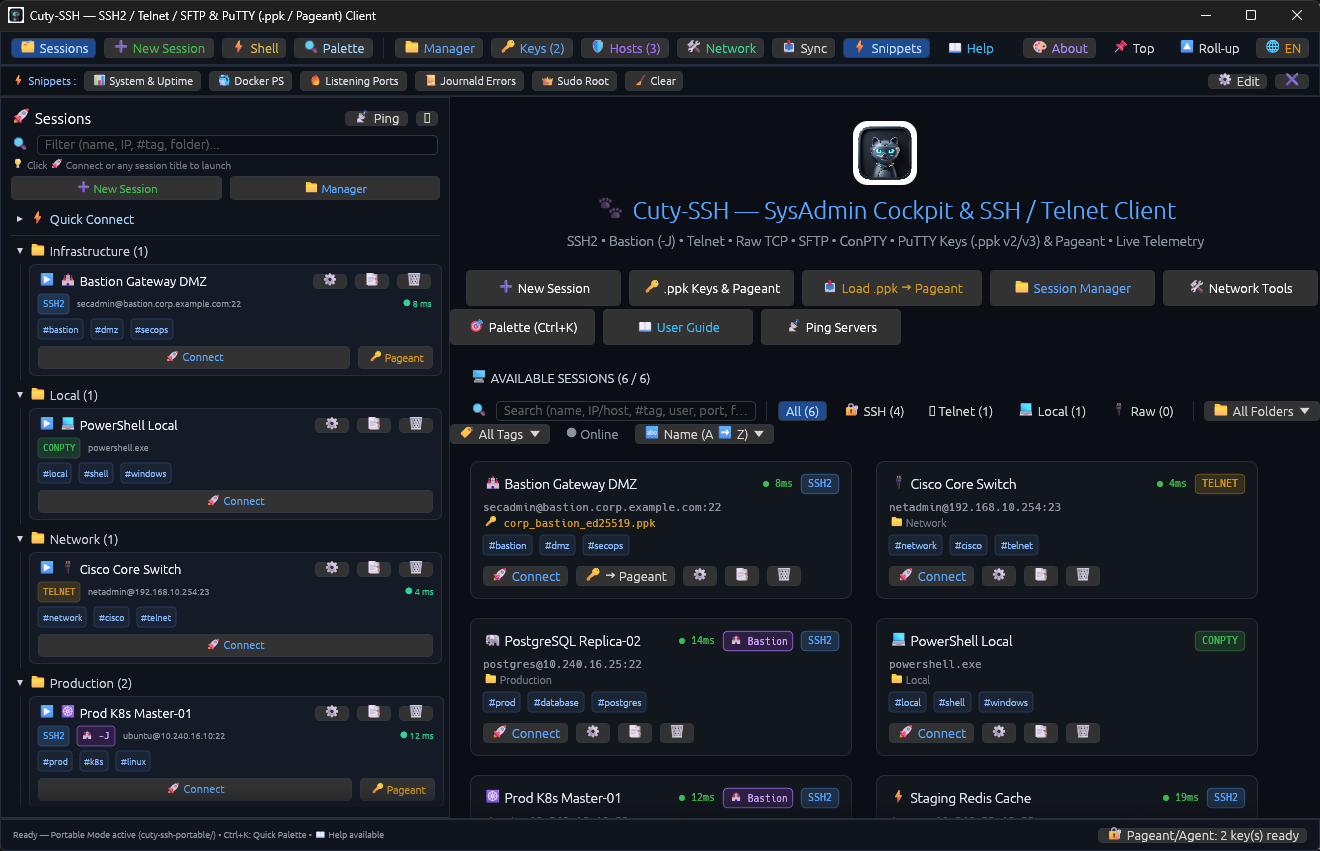
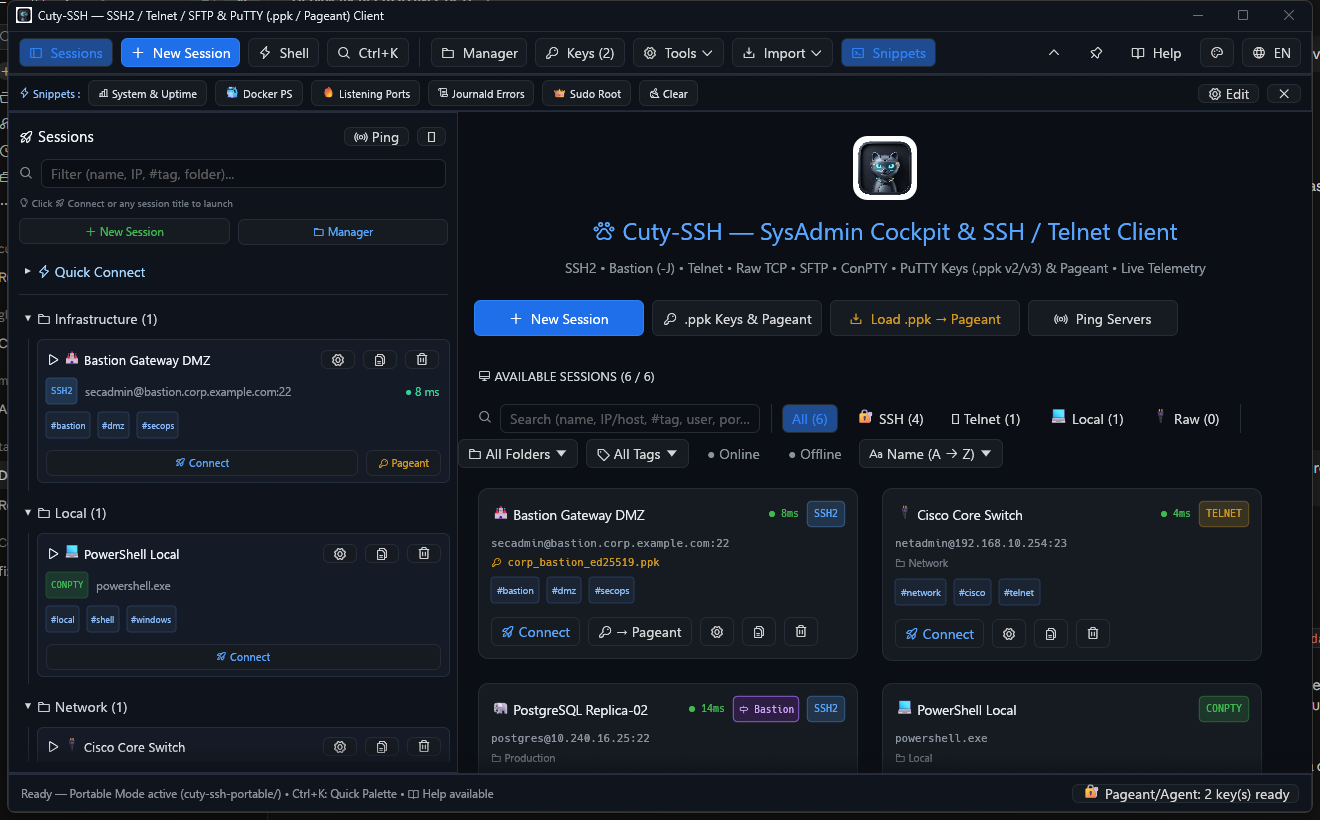
docs: refresh user guide (FR/EN), READMEs and screenshots for the new UI
- Guide: toolbar callouts, Tools/Import menus, welcome quick actions, Bastion
  badge, entry points for Known Hosts, Network tools, Audit and Replay (in-app
  guide and HTML export).
- READMEs (EN/FR): menu paths instead of removed toolbar buttons, v0.4.1.
- New assets/screenshot_cockpit.png and 8-frame assets/cuty_ssh_demo.gif
  captured from the release build in demo mode.

diff --git a/src/ui/help_modal.rs b/src/ui/help_modal.rs
@@ -47,8 +47,8 @@ impl HelpTopic {
             ),
             HelpTopic::Bastion => tr(
                 lang,
-                "2. 🏰 Bastion / Jump Host (-J)",
-                "2. 🏰 Bastion / Jump Host (-J)",
+                "2. ⇨ Bastion / Jump Host (-J)",
+                "2. ⇨ Bastion / Jump Host (-J)",
             ),
             HelpTopic::TagsAndManager => tr(
                 lang,
@@ -279,8 +279,8 @@ impl CutySshApp {
             &[
                 tr(
                     lang,
-                    "① Barre d'outils supérieure : Accès direct à 🗂 Sessions, ➕ Session, ⚡ Shell PowerShell, 🔍 Palette (Ctrl+K), 📁 Gestionnaire, 🔑 Clés .ppk, 🛡 Hosts (TOFU), 🛠 Diagnostic, 📜 Audit, ▶ Replay, 📥 Sync (PuTTY + ~/.ssh/config), 📥 KiTTY (import dossier portable), ⚡ Snippets, 📖 Aide et 🌐 Langue (FR/EN).",
-                    "① Top Toolbar: Direct access to 🗂 Sessions, ➕ Session, ⚡ Local Shell, 🔍 Palette (Ctrl+K), 📁 Session Manager, 🔑 .ppk Keys, 🛡 Hosts (TOFU), 🛠 Diagnostics, 📜 Audit, ▶ Replay, 📥 Sync (PuTTY + ~/.ssh/config), 📥 KiTTY (portable folder import), ⚡ Snippets, 📖 Help, and 🌐 Language (FR/EN).",
+                    "① Barre d'outils supérieure : ◧ Sessions (volet latéral), bouton bleu « Nouvelle session », ⚡ Shell PowerShell, 🔍 Ctrl+K (Palette), 📁 Gestionnaire, 🔑 Clés .ppk, menu « Outils ▾ » (Known Hosts TOFU, Diagnostic réseau, Audit, Replay), menu « Import ▾ » (Sync PuTTY + ~/.ssh/config, dossier KiTTY portable) et ⚡ Snippets. À droite : 📡 Broadcast (quand des onglets sont ouverts), enroulement, épingle « toujours au premier plan », 📖 Aide, 🎨 À propos et 🌐 Langue (FR/EN).",
+                    "① Top Toolbar: ◧ Sessions (sidebar), blue 'New Session' button, ⚡ Local Shell, 🔍 Ctrl+K (Palette), 📁 Manager, 🔑 .ppk Keys, 'Tools ▾' menu (Known Hosts TOFU, Network tools, Audit, Replay), 'Import ▾' menu (Sync PuTTY + ~/.ssh/config, portable KiTTY folder) and ⚡ Snippets. On the right: 📡 Broadcast (when tabs are open), roll-up, 'always on top' pin, 📖 Help, 🎨 About and 🌐 Language (FR/EN).",
                 ),
                 tr(
                     lang,
@@ -289,8 +289,13 @@ impl CutySshApp {
                 ),
                 tr(
                     lang,
-                    "③ Cockpit central & Cartes de sessions : Chaque carte affiche le protocole (SSH2, TELNET, CONPTY), la pastille d'état réseau, la clé .ppk associée, les badges #tag, le badge 🏰 Bastion, et les boutons 🚀 Connecter / 🔑 → Pageant / ⚙ Modifier.",
-                    "③ Central Cockpit & Session Cards: Each card displays the protocol badge (SSH2, TELNET, CONPTY), live health status dot, attached .ppk key, #tag pills, 🏰 Bastion badge, and 🚀 Connect / 🔑 → Pageant / ⚙ Edit buttons.",
+                    "③ Cockpit central & Cartes de sessions : Chaque carte affiche le protocole (SSH2, TELNET, CONPTY), la pastille d'état réseau, la clé .ppk associée, les badges #tag, le badge violet Bastion, et les boutons 🚀 Connecter / 🔑 → Pageant / ⚙ Modifier. Une bordure bleue met la carte en évidence au survol.",
+                    "③ Central Cockpit & Session Cards: Each card displays the protocol badge (SSH2, TELNET, CONPTY), live health status dot, attached .ppk key, #tag pills, purple Bastion badge, and 🚀 Connect / 🔑 → Pageant / ⚙ Edit buttons. A blue border highlights the card on hover.",
+                ),
+                tr(
+                    lang,
+                    "④ Actions rapides de l'accueil : « Nouvelle session », « Clés .ppk & Pageant », « Charger .ppk → Pageant » et « Ping serveurs ». Tous les autres outils sont dans la barre supérieure et dans la Palette (Ctrl+K).",
+                    "④ Welcome quick actions: 'New Session', '.ppk Keys & Pageant', 'Load .ppk → Pageant' and 'Ping Servers'. Every other tool lives in the top toolbar and the Command Palette (Ctrl+K).",
                 ),
             ],
         );
@@ -299,8 +304,8 @@ impl CutySshApp {
     fn render_help_bastion(&self, ui: &mut egui::Ui, lang: UiLanguage) {
         ui.heading(tr(
             lang,
-            "🏰 2. Configurer et utiliser un Bastion / Jump Host SSH (-J / ProxyJump)",
-            "🏰 2. Configuring and Using an SSH Bastion / Jump Host (-J / ProxyJump)",
+            "⇨ 2. Configurer et utiliser un Bastion / Jump Host SSH (-J / ProxyJump)",
+            "⇨ 2. Configuring and Using an SSH Bastion / Jump Host (-J / ProxyJump)",
         ));
         ui.add_space(6.0);
 
@@ -308,19 +313,19 @@ impl CutySshApp {
             ui,
             tr(
                 lang,
-                "Méthode A — Depuis l'éditeur de session (➕ Session ou icône ⚙)",
-                "Method A — From the Session Editor (➕ Session or ⚙ icon)",
+                "Méthode A — Depuis l'éditeur de session (➕ Nouvelle session ou icône ⚙)",
+                "Method A — From the Session Editor (➕ New Session or ⚙ icon)",
             ),
             &[
                 tr(
                     lang,
-                    "1. Cliquez sur « ➕ Session » dans la barre supérieure, ou sur l'icône « ⚙ » d'une session existante.",
-                    "1. Click '➕ Session' in the top toolbar, or click the '⚙' icon on any existing session.",
+                    "1. Cliquez sur « ➕ Nouvelle session » dans la barre supérieure, ou sur l'icône « ⚙ » d'une session existante.",
+                    "1. Click '➕ New Session' in the top toolbar, or click the '⚙' icon on any existing session.",
                 ),
                 tr(
                     lang,
-                    "2. Dans le premier onglet « 1. Connexion & Clé (.ppk) » (protocole SSH2), descendez jusqu'à l'encadré « 🏰 Bastion / Jump Host SSH (-J / ProxyJump) ».",
-                    "2. In the first tab '1. Connection & Key (.ppk)' (with SSH2 selected), scroll to the section '🏰 Bastion / Jump Host SSH (-J / ProxyJump)'.",
+                    "2. Dans le premier onglet « 1. Connexion & Clé (.ppk) » (protocole SSH2), descendez jusqu'à l'encadré « ⇨ Bastion / Jump Host SSH (-J / ProxyJump) ».",
+                    "2. In the first tab '1. Connection & Key (.ppk)' (with SSH2 selected), scroll to the section '⇨ Bastion / Jump Host SSH (-J / ProxyJump)'.",
                 ),
                 tr(
                     lang,
@@ -334,8 +339,8 @@ impl CutySshApp {
                 ),
                 tr(
                     lang,
-                    "5. Une fois configuré, un badge violet « 🏰 Bastion » apparaît automatiquement sur la carte de la session dans le Cockpit !",
-                    "5. Once configured, a purple '🏰 Bastion' badge automatically appears on the session card in the Cockpit!",
+                    "5. Une fois configuré, un badge violet « Bastion » apparaît automatiquement sur la carte de la session dans le Cockpit !",
+                    "5. Once configured, a purple 'Bastion' badge automatically appears on the session card in the Cockpit!",
                 ),
             ],
         );
@@ -345,14 +350,14 @@ impl CutySshApp {
             ui,
             tr(
                 lang,
-                "Méthode B — Import automatique depuis ~/.ssh/config (📥 Sync)",
-                "Method B — Automatic Import from ~/.ssh/config (📥 Sync)",
+                "Méthode B — Import automatique depuis ~/.ssh/config (menu Import ▾)",
+                "Method B — Automatic Import from ~/.ssh/config (Import ▾ menu)",
             ),
             &[
                 tr(
                     lang,
-                    "• Si votre fichier C:\\Users\\<vous>\\.ssh\\config contient une directive « ProxyJump bastion », cliquez simplement sur « 📥 Sync » dans la barre supérieure.",
-                    "• If your C:\\Users\\<you>\\.ssh\\config file contains a 'ProxyJump bastion' directive, simply click '📥 Sync' in the top toolbar.",
+                    "• Si votre fichier C:\\Users\\<vous>\\.ssh\\config contient une directive « ProxyJump bastion », ouvrez le menu « Import ▾ » dans la barre supérieure et choisissez « Sync PuTTY + ssh_config ».",
+                    "• If your C:\\Users\\<you>\\.ssh\\config file contains a 'ProxyJump bastion' directive, open the 'Import ▾' menu in the top toolbar and choose 'Sync PuTTY + ssh_config'.",
                 ),
                 tr(
                     lang,
@@ -505,8 +510,8 @@ impl CutySshApp {
                 ),
                 tr(
                     lang,
-                    "• Alerte en cas de changement de clé : Si la clé publique d'un serveur change (attaque Man-in-the-Middle ou réinstallation du serveur), la connexion est bloquée. Ouvrez « 🛡 Hosts » dans la barre supérieure pour vérifier ou révoquer l'ancienne clé.",
-                    "• Key Mismatch Alert: If a server's public key changes (MITM attack or server reinstall), the connection is blocked. Open '🛡 Hosts' in the top toolbar to inspect or revoke the old key.",
+                    "• Alerte en cas de changement de clé : Si la clé publique d'un serveur change (attaque Man-in-the-Middle ou réinstallation du serveur), la connexion est bloquée. Ouvrez « Outils ▾ → 🛡 Known Hosts » dans la barre supérieure pour vérifier ou révoquer l'ancienne clé.",
+                    "• Key Mismatch Alert: If a server's public key changes (MITM attack or server reinstall), the connection is blocked. Open 'Tools ▾ → 🛡 Known Hosts' in the top toolbar to inspect or revoke the old key.",
                 ),
                 tr(
                     lang,
@@ -604,8 +609,8 @@ impl CutySshApp {
             ui,
             tr(
                 lang,
-                "Accessible via le bouton « 🛠 Diagnostic » de la barre supérieure",
-                "Accessible via the '🛠 Diagnostic' button in the top toolbar",
+                "Accessible via le menu « Outils ▾ → 🛠 Diagnostic réseau » de la barre supérieure",
+                "Accessible via the 'Tools ▾ → 🛠 Network tools' menu in the top toolbar",
             ),
             &[
                 tr(
@@ -701,13 +706,13 @@ impl CutySshApp {
                 ),
                 tr(
                     lang,
-                    "• Lecteur Replay interactif (▶ Replay) : Rejouez vos sessions avec barre de défilement temporelle, sélecteur de vitesse (0.5x, 1x, 2x, 4x) et recherche de fichier d'enregistrement.",
-                    "• Interactive Replay Player (▶ Replay): Replay recorded sessions with a timeline scrubber, speed multiplier (0.5x, 1x, 2x, 4x), and recording file selector.",
+                    "• Lecteur Replay interactif (Outils ▾ → ▶ Replay) : Rejouez vos sessions avec barre de défilement temporelle, sélecteur de vitesse (0.5x, 1x, 2x, 4x) et recherche de fichier d'enregistrement.",
+                    "• Interactive Replay Player (Tools ▾ → ▶ Replay): Replay recorded sessions with a timeline scrubber, speed multiplier (0.5x, 1x, 2x, 4x), and recording file selector.",
                 ),
                 tr(
                     lang,
-                    "• Journal d'Audit (📜 Audit) : Journalise localement tous les événements de connexion, déconnexion, durées de session, erreurs et déploiements de clés. Recherche en direct, filtres par type d'événement et exports en 1 clic en CSV ou JSON. Zéro secret ou mot de passe stocké.",
-                    "• Audit Trail (📜 Audit): Logs all connect, disconnect, session duration, error, and key deployment events locally. Live search, event type filters, and 1-click CSV/JSON export. Zero secrets or passwords stored.",
+                    "• Journal d'Audit (Outils ▾ → 📜 Audit) : Journalise localement tous les événements de connexion, déconnexion, durées de session, erreurs et déploiements de clés. Recherche en direct, filtres par type d'événement et exports en 1 clic en CSV ou JSON. Zéro secret ou mot de passe stocké.",
+                    "• Audit Trail (Tools ▾ → 📜 Audit): Logs all connect, disconnect, session duration, error, and key deployment events locally. Live search, event type filters, and 1-click CSV/JSON export. Zero secrets or passwords stored.",
                 ),
             ],
         );
@@ -850,7 +855,7 @@ impl CutySshApp {
       </ul>
     </div>
     <div class="card">
-      <h2>2. 🏰 Bastion / Jump Host SSH (<code>-J</code> / <code>ProxyJump</code>)</h2>
+      <h2>2. ⇨ Bastion / Jump Host SSH (<code>-J</code> / <code>ProxyJump</code>)</h2>
       <ul>
         <li>{c2_b1}</li>
         <li>{c2_b2}</li>
@@ -931,13 +936,13 @@ impl CutySshApp {
             ),
             c2_b2 = tr(
                 lang,
-                "Dans l'onglet <em>1. Connexion &amp; Clé</em>, section <strong>🏰 Bastion / Jump Host SSH</strong> : choisissez une session Bastion dans la liste déroulante ou saisissez <code>user@bastion:22</code> dans <em>ProxyJump inline</em>.",
-                "In tab <em>1. Connection &amp; Key</em>, under <strong>🏰 Bastion / Jump Host SSH</strong>: select a saved Bastion session from the dropdown or enter <code>user@bastion:22</code> in <em>Inline ProxyJump</em>."
+                "Dans l'onglet <em>1. Connexion &amp; Clé</em>, section <strong>⇨ Bastion / Jump Host SSH</strong> : choisissez une session Bastion dans la liste déroulante ou saisissez <code>user@bastion:22</code> dans <em>ProxyJump inline</em>.",
+                "In tab <em>1. Connection &amp; Key</em>, under <strong>⇨ Bastion / Jump Host SSH</strong>: select a saved Bastion session from the dropdown or enter <code>user@bastion:22</code> in <em>Inline ProxyJump</em>."
             ),
             c2_b3 = tr(
                 lang,
-                "Le bouton <strong>📥 Sync</strong> importe aussi automatiquement les directives <code>ProxyJump</code> de votre fichier <code>~/.ssh/config</code>.",
-                "The <strong>📥 Sync</strong> button also automatically imports <code>ProxyJump</code> directives from your <code>~/.ssh/config</code> file."
+                "Le menu <strong>Import ▾ → Sync</strong> importe aussi automatiquement les directives <code>ProxyJump</code> de votre fichier <code>~/.ssh/config</code>.",
+                "The <strong>Import ▾ → Sync</strong> menu also automatically imports <code>ProxyJump</code> directives from your <code>~/.ssh/config</code> file."
             ),
             c3_title = tr(lang, "Gestionnaire en lot", "Bulk Session Manager"),
             c3_b1 = tr(
@@ -962,8 +967,8 @@ impl CutySshApp {
             ),
             c5_b1 = tr(
                 lang,
-                "<strong>🛡 Hosts (TOFU)</strong> : vérifie l'empreinte SHA-256 du serveur SSH à chaque connexion et bloque tout changement suspect de clé publique.",
-                "<strong>🛡 Hosts (TOFU)</strong>: verifies the SSH server's SHA-256 fingerprint on every connection and blocks suspicious host key changes."
+                "<strong>Outils ▾ → 🛡 Known Hosts (TOFU)</strong> : vérifie l'empreinte SHA-256 du serveur SSH à chaque connexion et bloque tout changement suspect de clé publique.",
+                "<strong>Tools ▾ → 🛡 Known Hosts (TOFU)</strong>: verifies the SSH server's SHA-256 fingerprint on every connection and blocks suspicious host key changes."
             ),
             c5_b2 = tr(
                 lang,

diff --git a/README.md b/README.md
@@ -19,7 +19,7 @@
   <img src="assets/cuty_ssh_icon.png" width="88" alt="Cuty-SSH App Icon" style="border-radius: 18px;" />
 </p>
 
-[**Download Latest Release (`v0.4.0`)**](https://github.com/laurentvv/cuty-ssh/releases/latest) · [**🇫🇷 Version Française**](README.fr.md) · [**Animated Tour**](#interactive-animated-tour--cockpit-preview) · [**Key Features**](#key-features) · [**1-Click `ssh-copy-id`**](#1-click-ssh-copy-id--automatic-password-to-key-migration) · [**Bastion (`-J`)**](#ssh-bastion--jump-host--j--proxyjump) · [**Architecture**](#architecture) · [**Build from Source**](#build-from-source)
+[**Download Latest Release (`v0.4.1`)**](https://github.com/laurentvv/cuty-ssh/releases/latest) · [**🇫🇷 Version Française**](README.fr.md) · [**Animated Tour**](#interactive-animated-tour--cockpit-preview) · [**Key Features**](#key-features) · [**1-Click `ssh-copy-id`**](#1-click-ssh-copy-id--automatic-password-to-key-migration) · [**Bastion (`-J`)**](#ssh-bastion--jump-host--j--proxyjump) · [**Architecture**](#architecture) · [**Build from Source**](#build-from-source)
 
 </div>
 
@@ -27,7 +27,7 @@
 
 ## Overview
 
-**Cuty-SSH** (`v0.4.0`) is a single-binary, portable, GPU-accelerated (**DirectX 12 / wgpu**) terminal emulator and sysadmin connection cockpit for Windows written in **100% safe, async Rust (`russh` + `egui` + `tokio`)** with **zero external binary dependencies** (no `putty.exe` or `kitty.exe` wrapper).
+**Cuty-SSH** (`v0.4.1`) is a single-binary, portable, GPU-accelerated (**DirectX 12 / wgpu**) terminal emulator and sysadmin connection cockpit for Windows written in **100% safe, async Rust (`russh` + `egui` + `tokio`)** with **zero external binary dependencies** (no `putty.exe` or `kitty.exe` wrapper).
 
 It bridges the gap between the classic **PuTTY / KiTTY** ecosystem and modern **OpenSSH** workflows:
 - Load **PuTTY `.ppk` v2 & v3** private keys natively (including **Argon2id** passphrase encryption) alongside OpenSSH/PEM keys.
@@ -52,7 +52,7 @@ It bridges the gap between the classic **PuTTY / KiTTY** ecosystem and modern **
 
 ## Feature Matrix: Why Cuty-SSH?
 
-| Capability | Classic PuTTY / KiTTY | Windows Terminal + `ssh.exe` | **Cuty-SSH (`v0.4.0`)** |
+| Capability | Classic PuTTY / KiTTY | Windows Terminal + `ssh.exe` | **Cuty-SSH (`v0.4.1`)** |
 | :--- | :---: | :---: | :---: |
 | **Pure Rust Async SSH2 Engine (`russh`)** | ❌ C legacy | ❌ External process | ✅ **Built-in (`russh 0.64`)** |
 | **Native PuTTY `.ppk` v2 & v3 (Argon2id) Keys** | ✅ | ❌ Requires conversion | ✅ **Direct load & inspection** |
@@ -62,13 +62,13 @@ It bridges the gap between the classic **PuTTY / KiTTY** ecosystem and modern **
 | **Integrated Streaming SFTP + Explorer Drag & Drop** | ❌ Separate `psftp` | ❌ | ✅ **Built-in side panel + 64 KB streaming** |
 | **Live Remote Telemetry Bar (`Load` / `RAM` / `Disk`)** | ❌ | ❌ | ✅ **Non-intrusive header bar** |
 | **Windows DPAPI Hardware-Bound Secret Encryption** | ❌ Plaintext registry | ❌ | ✅ **`CryptProtectData` + `zeroize`** |
-| **TOFU `known_hosts` SHA-256 Fingerprint Manager** | Registry popup | Text file only | ✅ **Visual `🛡 Hosts` modal + MITM alert** |
+| **TOFU `known_hosts` SHA-256 Fingerprint Manager** | Registry popup | Text file only | ✅ **Visual `Tools ▾ → Known Hosts` modal + MITM alert** |
 | **Split-Screen Terminal (`◫ Split V` / `⊟ Split H`)** | ❌ | ✅ | ✅ **Side-by-side & top-bottom panes** |
 | **Multi-Terminal Keystroke Broadcast (`📡 Broadcast`)** | ❌ | ❌ | ✅ **Simultaneous input with visual badge** |
-| **Session Recording (`🔴 REC`) & Player (`▶ Replay`)** | Text logging only | ❌ | ✅ **Asciinema v2 (`.cast`) + GUI player** |
+| **Session Recording (`🔴 REC`) & Player (`Tools ▾ → Replay`)** | Text logging only | ❌ | ✅ **Asciinema v2 (`.cast`) + GUI player** |
 | **Zero-Trust Edge Presets (ShellHub / Tailscale)** | ❌ | ❌ | ✅ **Native integration & auto-formatting** |
 | **Fleet Health Probing & Bulk `ssh-copy-id`** | ❌ | ❌ | ✅ **Periodic 45s TCP ping + 1-click batch key** |
-| **Audit Log Trail (`📜 Audit`) with CSV/JSON Export** | ❌ | ❌ | ✅ **Local session events + zero-secret audit** |
+| **Audit Log Trail (`Tools ▾ → Audit`) with CSV/JSON Export** | ❌ | ❌ | ✅ **Local session events + zero-secret audit** |
 | **SysAdmin Toolkit (Port Scanner, CIDR, Health Check)** | ❌ | ❌ | ✅ **Built-in `🛠 Network & CIDR`** |
 | **Bilingual UI (`🌐 EN / FR`) + Illustrated User Guide** | ❌ | ❌ | ✅ **Instant switch + HTML export** |
 
@@ -113,9 +113,9 @@ Connect to isolated private or DMZ servers transparently through an intermediate
 3. Either select an existing saved SSH session in the **Bastion Session** dropdown, or type an inline jump specification (`user@bastion.corp:22`) in **Inline ProxyJump**, then click **💾 Save**.
 4. Sessions routed through a Bastion display a purple **`🏰 Bastion` / `🏰 -J`** badge in the Sidebar and Cockpit.
 
-- **TOFU Host Key Verification & `known_hosts` Manager (`🛡 Hosts`)**:
+- **TOFU Host Key Verification & `known_hosts` Manager (`Tools ▾ → 🛡 Known Hosts`)**:
   - Automatic Trust-On-First-Use (TOFU) verification of server SHA-256 public key fingerprints stored in `cuty-ssh-portable/known_hosts.json`.
-  - Strict anti-MITM protection: immediately blocks the connection with a security alert if a server's public key changes, with a dedicated modal (`🛡 Hosts`) to inspect, copy, or revoke fingerprints.
+  - Strict anti-MITM protection: immediately blocks the connection with a security alert if a server's public key changes, with a dedicated modal (`Tools ▾ → Known Hosts`) to inspect, copy, or revoke fingerprints.
 - **Windows DPAPI Encrypted Credentials Vault**:
   - Saved passwords and key passphrases are automatically encrypted at rest using Windows **DPAPI** (`CryptProtectData` / `CryptUnprotectData`, bound to the current Windows user account) with `"dpapi:<base64>"` encoding and `zeroize` in-memory protection.
 - **Live Remote Server Telemetry Bar**:
@@ -144,10 +144,10 @@ Connect to isolated private or DMZ servers transparently through an intermediate
 - **Real-Time Multi-Criteria Search & Session Tags (`#tag`)**:
   - Filter sessions instantaneously as you type by **Name**, **Host / IP**, **Port**, **Username**, **Protocol**, **Folder**, or **`#tag`**.
   - Assign custom tags (`prod`, `docker`, `db`, `dmz`, `linux`, etc.) in the Session Editor or tag/untag multiple sessions in bulk inside the **Session Manager (`📁 Manager`)**.
-- **Automatic `~/.ssh/config` Importer (`📥 Sync`) & PuTTY Registry Sync**:
+- **Automatic `~/.ssh/config` Importer (`Import ▾ → Sync`) & PuTTY Registry Sync**:
   - Parses standard `~/.ssh/config` files (`Host`, `HostName`, `User`, `Port`, `IdentityFile`, `ProxyJump`, `LocalForward`, `RemoteForward`) and imports them with tags and tunnels.
   - Automatic & manual import from `HKCU\Software\SimonTatham\PuTTY\Sessions`.
-  - **`📥 KiTTY` button**: pick a portable KiTTY folder (the one containing `Sessions/`) to import all its sessions; `📥 Sync` re-imports it afterwards.
+  - **`Import ▾ → KiTTY…`**: pick a portable KiTTY folder (the one containing `Sessions/`) to import all its sessions; `Import ▾ → Sync` re-imports it afterwards.
 - **SysAdmin Diagnostic Toolkit (`🛠 Network & CIDR`) & Command Palette (`Ctrl+K`)**:
   - Fuzzy session & command launcher (`Ctrl+K`).
   - Multi-threaded async **TCP Port Scanner & SSH Banner Grabber**.
@@ -173,9 +173,9 @@ Connect to isolated private or DMZ servers transparently through an intermediate
 - **Multi-Terminal Keystroke Broadcast (`📡 Broadcast`)**:
   - In Split View mode (Vertical or Horizontal), toggle `📡 Broadcast` to mirror every typed character simultaneously across all connected sessions.
   - Distinct safety indicators (orange `📡 BROADCAST ON` badge) in each terminal header clearly alert you when broadcast mode is armed.
-- **Session Recording (`🔴 REC`) & Built-in Player (`▶ Replay`)**:
+- **Session Recording (`🔴 REC`) & Built-in Player (`Tools ▾ → Replay`)**:
   - Record any active SSH or local terminal session on-the-fly into standard **Asciinema v2 (`.cast`)** JSON Lines format stored in `cuty-ssh-portable/recordings/`.
-  - Replay recordings anytime with the built-in **`▶ Replay`** modal featuring interactive timeline scrubbing, play/pause controls, and speed multipliers (`0.5x`, `1x`, `2x`, `4x`).
+  - Replay recordings anytime with the built-in **`Tools ▾ → ▶ Replay`** modal featuring interactive timeline scrubbing, play/pause controls, and speed multipliers (`0.5x`, `1x`, `2x`, `4x`).
   - 100% compatible with external tools like `asciinema play` or `agg`.
 - **Zero-Trust & Edge Gateway Presets (ShellHub & Tailscale)**:
   - First-class support for **ShellHub** IoT & edge device access (UUID-based routing through ShellHub Cloud or self-hosted instances) and **Tailscale** MagicDNS mesh IPs.
@@ -186,7 +186,7 @@ Connect to isolated private or DMZ servers transparently through an intermediate
   - `● Online` / `● Offline` filter toggles on the Cockpit show only reachable or only unreachable servers; the same toggles in the Session Manager let you select and bulk-delete dead VMs.
   - Manual `📡 Ping` button in the Cockpit toolbar triggers an immediate fleet-wide check.
   - In **`📁 Manager`**, select multiple hosts and click **`🔑 Deploy Primary Key`** to bulk-install your public key across your fleet in parallel.
-- **Local Session & Audit Log (`📜 Audit`)**:
+- **Local Session & Audit Log (`Tools ▾ → 📜 Audit`)**:
   - Centralized local audit trail recording connect, disconnect, session duration, error, and key deployment events.
   - Full-text search and event filter chips (`CONNECT`, `DISCONNECT`, `ERROR`, `DEPLOY_KEY`).
   - 1-click **CSV** and **JSON** exports for security audits and reporting.

diff --git a/README.fr.md b/README.fr.md
@@ -19,7 +19,7 @@
   <img src="assets/cuty_ssh_icon.png" width="88" alt="Icône Cuty-SSH" style="border-radius: 18px;" />
 </p>
 
-[**Télécharger la dernière version (`v0.4.0`)**](https://github.com/laurentvv/cuty-ssh/releases/latest) · [**🇬🇧 English Version**](README.md) · [**Visite animée**](#visite-guide-anime--aperu-du-cockpit) · [**Fonctionnalités**](#fonctionnalits-cls) · [**`ssh-copy-id` en 1 clic**](#dploiement-de-cl-ssh-copy-id-en-1-clic--migration-automatique-mot-de-passe--cl) · [**Bastion (`-J`)**](#bastion-ssh--hte-de-rebond--j--proxyjump) · [**Architecture**](#architecture) · [**Compiler depuis les sources**](#compiler-depuis-les-sources)
+[**Télécharger la dernière version (`v0.4.1`)**](https://github.com/laurentvv/cuty-ssh/releases/latest) · [**🇬🇧 English Version**](README.md) · [**Visite animée**](#visite-guide-anime--aperu-du-cockpit) · [**Fonctionnalités**](#fonctionnalits-cls) · [**`ssh-copy-id` en 1 clic**](#dploiement-de-cl-ssh-copy-id-en-1-clic--migration-automatique-mot-de-passe--cl) · [**Bastion (`-J`)**](#bastion-ssh--hte-de-rebond--j--proxyjump) · [**Architecture**](#architecture) · [**Compiler depuis les sources**](#compiler-depuis-les-sources)
 
 </div>
 
@@ -27,7 +27,7 @@
 
 ## Vue d'ensemble
 
-**Cuty-SSH** (`v0.4.0`) est un émulateur de terminal et cockpit d'administration système tout-en-un pour Windows, mono-binaire, portable et accéléré par GPU (**DirectX 12 / wgpu**), écrit en **Rust 100% sûr et asynchrone (`russh` + `egui` + `tokio`)**, sans **aucune dépendance binaire externe** (aucun emballage de `putty.exe` ou `kitty.exe`).
+**Cuty-SSH** (`v0.4.1`) est un émulateur de terminal et cockpit d'administration système tout-en-un pour Windows, mono-binaire, portable et accéléré par GPU (**DirectX 12 / wgpu**), écrit en **Rust 100% sûr et asynchrone (`russh` + `egui` + `tokio`)**, sans **aucune dépendance binaire externe** (aucun emballage de `putty.exe` ou `kitty.exe`).
 
 Il réconcilie l'écosystème classique **PuTTY / KiTTY** avec les méthodes de travail modernes **OpenSSH** :
 - Chargement natif des clés privées **PuTTY `.ppk` v2 et v3** (incluant le chiffrement par mot de passe **Argon2id**) en plus des formats OpenSSH et PEM.
@@ -53,7 +53,7 @@ Il réconcilie l'écosystème classique **PuTTY / KiTTY** avec les méthodes de 
 
 ## Tableau comparatif : Pourquoi Cuty-SSH ?
 
-| Fonctionnalité | PuTTY / KiTTY classique | Windows Terminal + `ssh.exe` | **Cuty-SSH (`v0.4.0`)** |
+| Fonctionnalité | PuTTY / KiTTY classique | Windows Terminal + `ssh.exe` | **Cuty-SSH (`v0.4.1`)** |
 | :--- | :---: | :---: | :---: |
 | **Moteur SSH2 pur Rust asynchrone (`russh`)** | ❌ Code C historique | ❌ Processus externe | ✅ **Intégré (`russh 0.64`)** |
 | **Clés PuTTY `.ppk` v2 & v3 (Argon2id) natives** | ✅ | ❌ Conversion requise | ✅ **Lecture & inspection directes** |
@@ -63,7 +63,7 @@ Il réconcilie l'écosystème classique **PuTTY / KiTTY** avec les méthodes de 
 | **Explorateur SFTP en streaming + Glisser-Déposer** | ❌ `psftp` séparé | ❌ | ✅ **Panneau intégré + flux 64 Ko** |
 | **Télémétrie serveur en direct (`Load` / `RAM` / `Disque`)** | ❌ | ❌ | ✅ **Bandeau d'en-tête non intrusif** |
 | **Chiffrement matériel des secrets (Windows DPAPI)** | ❌ Registre en clair | ❌ | ✅ **`CryptProtectData` + `zeroize`** |
-| **Gestionnaire d'empreintes TOFU `known_hosts` SHA-256** | Popup registre | Fichier texte seul | ✅ **Modale `🛡 Hosts` + alerte MITM** |
+| **Gestionnaire d'empreintes TOFU `known_hosts` SHA-256** | Popup registre | Fichier texte seul | ✅ **Modale `Outils ▾ → Known Hosts` + alerte MITM** |
 | **Écran scindé (`◫ Split V` / `⊟ Split H`)** | ❌ | ✅ | ✅ **Panneaux côte-à-côte et haut/bas** |
 | **Diffusion des frappes clavier (`📡 Broadcast`)** | ❌ | ❌ | ✅ **Saisie simultanée avec badge de sécurité** |
 | **Enregistrement de session (`🔴 REC`) & Lecteur (`▶ Replay`)** | Journal texte brut | ❌ | ✅ **Asciinema v2 (`.cast`) + lecteur GUI** |
@@ -112,11 +112,11 @@ Connectez-vous à vos serveurs privés ou en DMZ à travers un serveur interméd
 1. Ouvrez l'éditeur de session (`➕ Session` ou cliquez sur `⚙` sur une carte de session).
 2. Dans l'onglet **🔌 Connexion & Clé .PPK / Pageant** (SSH2 sélectionné), accédez à la section **🏰 Bastion / Jump Host SSH (-J / ProxyJump)**.
 3. Choisissez une session Bastion enregistrée dans la liste déroulante ou renseignez un hôte inline (`user@bastion.corp:22`), puis cliquez sur **💾 Enregistrer**.
-4. Les sessions passant par un Bastion affichent un badge violet **`🏰 Bastion` / `🏰 -J`** sur le Cockpit et dans la barre latérale.
+4. Les sessions passant par un Bastion affichent un badge violet **`Bastion` / `-J`** sur le Cockpit et dans la barre latérale.
 
-- **Vérification TOFU des clés d'hôtes & Gestionnaire `known_hosts` (`🛡 Hosts`)** :
+- **Vérification TOFU des clés d'hôtes & Gestionnaire `known_hosts` (`Outils ▾ → 🛡 Known Hosts`)** :
   - Validation automatique Trust-On-First-Use (TOFU) des empreintes SHA-256 des serveurs dans `cuty-ssh-portable/known_hosts.json`.
-  - Protection stricte anti-MITM : blocage immédiat avec alerte de sécurité si la clé publique d'un serveur change, avec modale dédiée (`🛡 Hosts`) pour inspecter, copier ou révoquer une empreinte.
+  - Protection stricte anti-MITM : blocage immédiat avec alerte de sécurité si la clé publique d'un serveur change, avec modale dédiée (`Outils ▾ → Known Hosts`) pour inspecter, copier ou révoquer une empreinte.
 - **Coffre de stockage chiffré par Windows DPAPI** :
   - Les mots de passe et passphrases enregistrés sont chiffrés sur disque via l'API Windows **DPAPI** (`CryptProtectData` / `CryptUnprotectData`, lié à votre compte utilisateur Windows) avec préfixe `"dpapi:<base64>"` et protection `zeroize` en mémoire.
 - **Télémétrie serveur en direct** :
@@ -145,10 +145,10 @@ Connectez-vous à vos serveurs privés ou en DMZ à travers un serveur interméd
 - **Recherche multicritère instantanée & Tags de sessions (`#tag`)** :
   - Filtrez instantanément par Nom, Hôte / IP, Port, Utilisateur, Protocole, Dossier ou `#tag`.
   - Associez des tags personnalisés (`prod`, `dmz`, `db`, `linux`, etc.) ou gérez les tags en lot sur plusieurs sessions via le **Gestionnaire (`📁 Gestionnaire`)**.
-- **Importateur automatique `~/.ssh/config` (`📥 Sync`) & Synchronisation PuTTY** :
+- **Importateur automatique `~/.ssh/config` (`Import ▾ → Sync`) & Synchronisation PuTTY** :
   - Analyse des fichiers `~/.ssh/config` standards (`Host`, `HostName`, `User`, `Port`, `IdentityFile`, `ProxyJump`, `LocalForward`, `RemoteForward`) avec import des tags et des tunnels.
   - Importation automatique ou manuelle depuis le Registre PuTTY (`HKCU\Software\SimonTatham\PuTTY\Sessions`).
-  - **Bouton `📥 KiTTY`** : choisissez un dossier KiTTY portable (celui qui contient `Sessions/`) pour importer toutes ses sessions ; `📥 Sync` le ré-importe ensuite.
+  - **Menu `Import ▾ → KiTTY…`** : choisissez un dossier KiTTY portable (celui qui contient `Sessions/`) pour importer toutes ses sessions ; `Import ▾ → Sync` le ré-importe ensuite.
 - **Boîte à outils Diagnostic Réseau (`🛠 Diagnostic & CIDR`) & Palette rapide (`Ctrl+K`)** :
   - Lanceur rapide de commandes et de sessions (`Ctrl+K`).
   - Scanner de ports TCP multi-threadé asynchrone & capture de bannières SSH.
